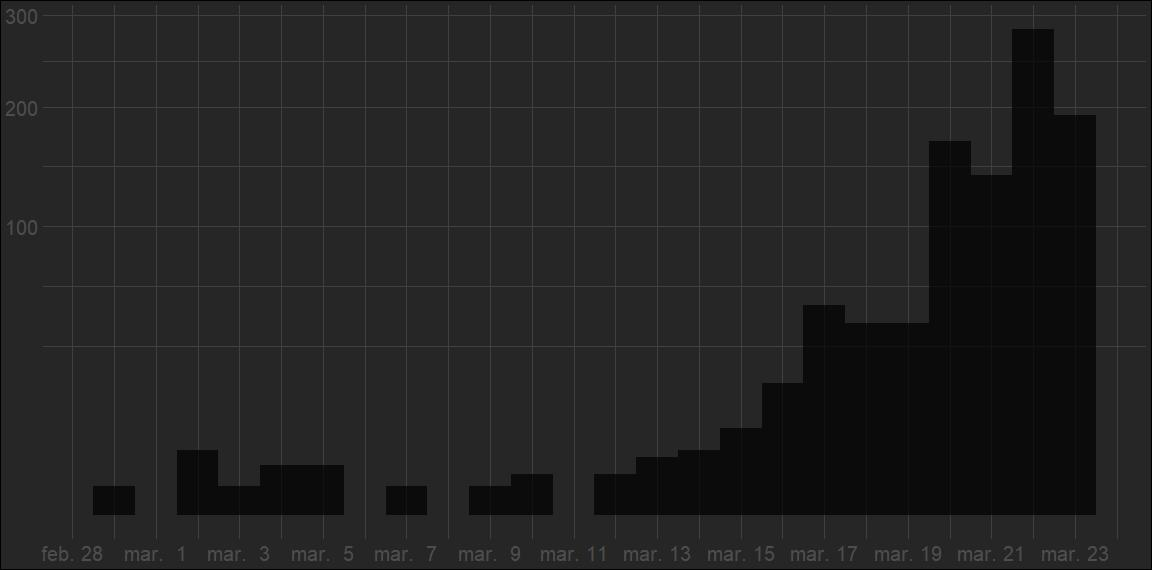
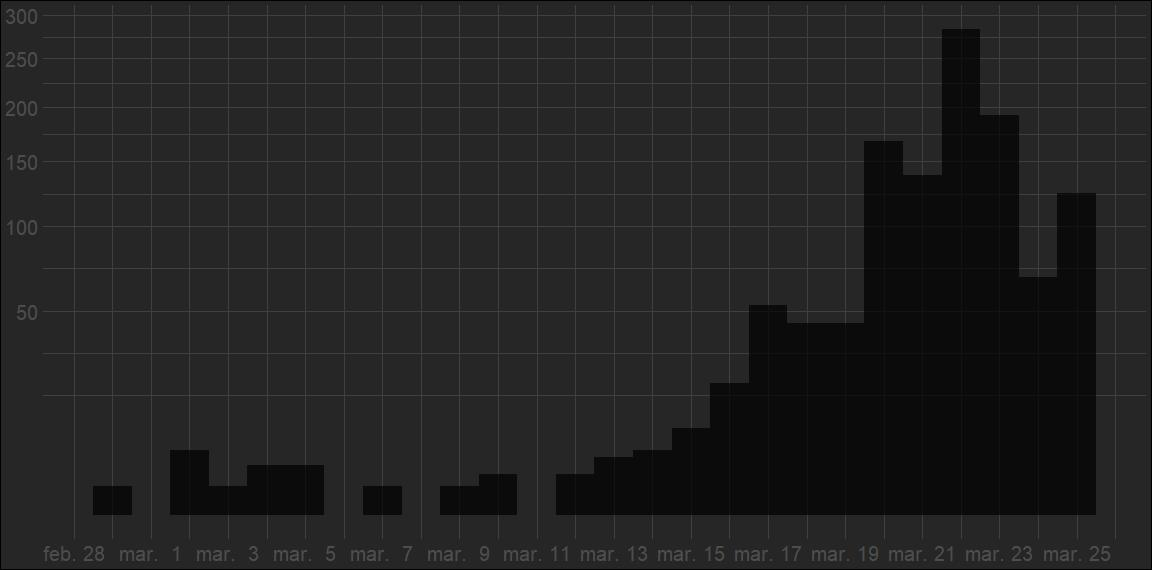
5th post corona act5

diff --git a/docs/post/2020/03/20-caracterizacion-covid-ecuador/index.html b/docs/post/2020/03/20-caracterizacion-covid-ecuador/index.html
@@ -298,7 +298,7 @@ code span.wa { color: #bf0303; } /* Warning */
 </style>
 
 
-<p><strong>Actualizado: 23 de marzo, 12 AM</strong></p>
+<p><strong>Actualizado: 25 de marzo, 12 AM</strong></p>
 <p>En vista de la emergencia en curso causada por el SARS-CoV-2 se presenta una caracterización de la epidemia en Ecuador. Se ha aplicado una metodología sugerida por el R Epidemics Consortium <a href="https://www.repidemicsconsortium.org/">RECON</a> que permite estimar tempranamente el ritmo reproductivo del virus; esta metodología requiere poseer información sobre la transmisión, y datos de la incidencia. La información requerida contempla los siguientes conceptos:</p>
 <ul>
 <li><p>El ritmo reproductivo básico (<em>Basic Reproduction Number</em>, R<sub>0</sub>) es el número esperado de casos nuevos, generados directamente por un determinado caso en una población completamente susceptible; es crucial entender que R<sub>0</sub> no es una constante biológica de un patógeno, pues es afectado por factores ambientales y conductuales.</p></li>
@@ -331,6 +331,34 @@ Personas fallecidas
 </tr>
 </thead>
 <tbody>
+<tr>
+<td style="text-align:left;">
+Riesgos_Ec
+</td>
+<td style="text-align:left;">
+25 de marzo, 10 AM
+</td>
+<td style="text-align:right;">
+1173
+</td>
+<td style="text-align:right;">
+28
+</td>
+</tr>
+<tr>
+<td style="text-align:left;">
+Riesgos_Ec
+</td>
+<td style="text-align:left;">
+24 de marzo, 10 AM
+</td>
+<td style="text-align:right;">
+1049
+</td>
+<td style="text-align:right;">
+27
+</td>
+</tr>
 <tr>
 <td style="text-align:left;">
 Riesgos_Ec
@@ -627,14 +655,16 @@ Salud_Ec
 ##          1          5          1          3          3          1          1 
 ## 2020-03-10 2020-03-12 2020-03-13 2020-03-14 2020-03-15 2020-03-16 2020-03-17 
 ##          2          2          4          5          9         21         53 
-## 2020-03-18 2020-03-19 2020-03-20 2020-03-21 2020-03-22 2020-03-23 
-##         44         44        168        139        283        192</code></pre>
+## 2020-03-18 2020-03-19 2020-03-20 2020-03-21 2020-03-22 2020-03-23 2020-03-24 
+##         44         44        168        139        283        192         68 
+## 2020-03-25 
+##        124</code></pre>
 <p>A continuación es posible ajustar un modelo logarítmico para la incidencia en el tiempo utilizando el paquete <code>incidence</code>:</p>
 <div class="sourceCode" id="cb3"><pre class="sourceCode r"><code class="sourceCode r"><a class="sourceLine" id="cb3-1" title="1"><span class="kw">library</span>(incidence)</a>
 <a class="sourceLine" id="cb3-2" title="2"></a>
 <a class="sourceLine" id="cb3-3" title="3">EC_incid =<span class="st"> </span><span class="kw">incidence</span>(EC_incid)</a>
 <a class="sourceLine" id="cb3-4" title="4"></a>
-<a class="sourceLine" id="cb3-5" title="5">EC_model =<span class="st"> </span><span class="kw">fit</span>(EC_incid[<span class="dv">8</span><span class="op">:</span><span class="kw">nrow</span>(EC_incid)]) <span class="co"># excluyendo primera semana</span></a>
+<a class="sourceLine" id="cb3-5" title="5">EC_model =<span class="st"> </span><span class="kw">fit</span>(EC_incid[<span class="dv">8</span><span class="op">:</span><span class="dv">23</span>]) <span class="co"># del 7 al 22 de marzo</span></a>
 <a class="sourceLine" id="cb3-6" title="6"></a>
 <a class="sourceLine" id="cb3-7" title="7">EC_model<span class="op">$</span>model</a></code></pre></div>
 <pre><code>## 
@@ -643,22 +673,23 @@ Salud_Ec
 ## 
 ## Coefficients:
 ## (Intercept)      dates.x  
-##     -0.8710       0.3985</code></pre>
-<p>En el caso de Ecuador, el comportamiento logarítmico (R<sup>2</sup> = 0.9531) es observable una semana después de la detección del primer caso. De acuerdo a este modelo se espera que cada 1.74 días se dupliquen los casos; esto, con un intervalo de confianza (CI) al 95 % de 1.54 a 2.01 días. En el siguiente gráfico las columnas rojas representan la incidencia diaria, la curva el modelo logarítmico -las líneas entrecortadas delimitan el 95 % CI- y la recta amarilla el inicio del estado de excepción, decretado para frenar las transmisiones.</p>
+##     -0.9479       0.4110</code></pre>
+<p>En Ecuador, el comportamiento logarítmico (R<sup>2</sup> = 0.9522) se observó del 7 de marzo -una semana después de detectado el primer caso- al 22 de marzo. En ese periodo los casos se duplicaron cada 1.69 días; esto, con un intervalo de confianza (CI) al 95 % de 1.48 a 1.96 días. Después de eso, la incidencia diaria es difícil de modelar; esto se podría relacionar tanto con las medidas de emergencia adoptadas, como con dudas sobre la veracidad de los datos. En el siguiente gráfico las columnas rojas representan la incidencia diaria, la curva el modelo logarítmico -las líneas entrecortadas delimitan el 95 % CI- y la recta amarilla el inicio del estado de excepción, decretado para frenar las transmisiones.</p>
 <div class="figure"><span id="fig:logplot"></span>
 <img src="../../../../post/2020/03/20-caracterizacion-covid-ecuador_files/figure-html/logplot-1.png" alt="Incidencia diaria de COVID-19 en Ecuador y modelo logarítmico ajustado" width="672" />
 <p class="caption">
 Figure 1: Incidencia diaria de COVID-19 en Ecuador y modelo logarítmico ajustado
 </p>
 </div>
-<p>La estimación de R<sub>0</sub> con <code>earlyR</code> requiere conocer el SI del COVID-19; en este sentido, la literatura reciente presenta dos alternativas. La primera, aprovechar el conocimiento de epidemias anteriores; <span class="citation">Zhao, Lin, et al. (<a href="#ref-covia" role="doc-biblioref">2020</a>)</span> proponen promediar las características del MERS (mean = 7.6, sd = 3.4) y del SARS (mean = 8.4, sd = 3.8), síndromes causados por otros coronavirus. La segunda alternativa consiste en estimar el SI utilizando las pocas cadenas de transmisión ya identificadas <span class="citation">(Zhao, Gao, et al. <a href="#ref-covib" role="doc-biblioref">2020</a>; Nishiura, Linton, and Akhmetzhanov <a href="#ref-covic" role="doc-biblioref">2020</a>)</span>; de esta manera se obtiene un SI preliminar, pero propio del SARS-CoV-2. Con estos antecedentes, se estimó <code>R_viruses</code> y <code>R_chains</code> usando la primera y segunda alternativa, respectivamente; los siguientes histogramas presentan la distribución de R<sub>0</sub> en ambos casos.</p>
+<p>La estimación de R<sub>0</sub> con <code>earlyR</code> requiere conocer el SI del COVID-19; en este sentido, la literatura reciente presenta dos alternativas. La primera, aprovechar el conocimiento de epidemias anteriores; <span class="citation">Zhao, Lin, et al. (<a href="#ref-covia" role="doc-biblioref">2020</a>)</span> proponen promediar las características del MERS (mean = 7.6, sd = 3.4) y del SARS (mean = 8.4, sd = 3.8), síndromes causados por otros coronavirus. La segunda alternativa consiste en estimar el SI utilizando las pocas cadenas de transmisión ya identificadas <span class="citation">(Zhao, Gao, et al. <a href="#ref-covib" role="doc-biblioref">2020</a>; Nishiura, Linton, and Akhmetzhanov <a href="#ref-covic" role="doc-biblioref">2020</a>)</span>; de esta manera se obtiene un SI preliminar, pero propio del SARS-CoV-2.</p>
+<p>Con estos antecedentes, se estimó <code>R_viruses</code> y <code>R_chains</code> usando la primera y segunda alternativa, respectivamente; se consideró la incidencia hasta el 22 de marzo, el pico actual de casos nuevos. Los siguientes histogramas presentan la distribución de los R<sub>0</sub> calculados.</p>
 <div class="sourceCode" id="cb5"><pre class="sourceCode r"><code class="sourceCode r"><a class="sourceLine" id="cb5-1" title="1"><span class="kw">library</span>(earlyR)</a>
 <a class="sourceLine" id="cb5-2" title="2"></a>
-<a class="sourceLine" id="cb5-3" title="3">R_viruses =<span class="st"> </span><span class="kw">get_R</span>(EC_incid, <span class="dt">si_mean =</span> <span class="dv">8</span>, <span class="dt">si_sd =</span> <span class="fl">3.6</span>, <span class="dt">max_R =</span> <span class="dv">6</span>) <span class="co"># según Zhao, Lin et al.</span></a>
+<a class="sourceLine" id="cb5-3" title="3">R_viruses =<span class="st"> </span><span class="kw">get_R</span>(EC_incid[<span class="dv">1</span><span class="op">:</span><span class="dv">23</span>], <span class="dt">si_mean =</span> <span class="dv">8</span>, <span class="dt">si_sd =</span> <span class="fl">3.6</span>, <span class="dt">max_R =</span> <span class="dv">6</span>) <span class="co"># Zhao, Lin et al.</span></a>
 <a class="sourceLine" id="cb5-4" title="4"></a>
-<a class="sourceLine" id="cb5-5" title="5">R_chains =<span class="st"> </span><span class="kw">get_R</span>(EC_incid, <span class="dt">si_mean =</span> <span class="fl">4.4</span>, <span class="dt">si_sd =</span> <span class="dv">3</span>, <span class="dt">max_R =</span> <span class="dv">6</span>) <span class="co"># según Zhao, Gao et al.</span></a>
+<a class="sourceLine" id="cb5-5" title="5">R_chains =<span class="st"> </span><span class="kw">get_R</span>(EC_incid[<span class="dv">1</span><span class="op">:</span><span class="dv">23</span>], <span class="dt">si_mean =</span> <span class="fl">4.4</span>, <span class="dt">si_sd =</span> <span class="dv">3</span>, <span class="dt">max_R =</span> <span class="dv">6</span>) <span class="co"># Zhao, Gao et al.</span></a>
 <a class="sourceLine" id="cb5-6" title="6"></a>
-<a class="sourceLine" id="cb5-7" title="7"><span class="kw">par</span>(<span class="dt">mfrow =</span> <span class="kw">c</span>(<span class="dv">1</span>,<span class="dv">2</span>), <span class="dt">mar =</span> <span class="kw">c</span>(<span class="dv">4</span>,<span class="dv">5</span>,<span class="dv">1</span>,<span class="dv">1</span>))</a>
+<a class="sourceLine" id="cb5-7" title="7"><span class="kw">par</span>(<span class="dt">mfrow =</span> <span class="kw">c</span>(<span class="dv">1</span>, <span class="dv">2</span>), <span class="dt">mar =</span> <span class="kw">c</span>(<span class="dv">4</span>, <span class="dv">5</span>, <span class="dv">1</span>, <span class="dv">1</span>))</a>
 <a class="sourceLine" id="cb5-8" title="8"></a>
 <a class="sourceLine" id="cb5-9" title="9"><span class="kw">hist</span>(<span class="kw">sample_R</span>(R_viruses, <span class="fl">1e3</span>), <span class="dt">freq =</span> <span class="ot">FALSE</span>, <span class="dt">main =</span> <span class="ot">NULL</span>, <span class="dt">xlab =</span> <span class="st">&quot;R_viruses&quot;</span>)</a>
 <a class="sourceLine" id="cb5-10" title="10"></a>
@@ -669,44 +700,44 @@ Figure 1: Incidencia diaria de COVID-19 en Ecuador y modelo logarítmico ajustad
 Figure 2: Distribución de Ro del COVID-19 según SI de otros coronavirus 👈 y de cadenas de transmisión estudiadas 👉
 </p>
 </div>
-<p>La primera alternativa arroja 4 como el valor más probable; es posible considerar este valor una sobrestimación de R<sub>0</sub> según lo observado en estudios recientes. Mientras tanto, la segunda alternativa estima un R<sub>0</sub> = 1.86 (95 % CI: 1.75 - 1.98); un valor congruente con los estudios, donde se ha observado que el SARS-CoV-2 posee un SI más corto que otros coronavirus. Por ende, aun con un ritmo reproductivo menor, puede generar más casos.</p>
-<p>Considerando R<sub>0</sub> se puede modelar una proyección futura, más flexible que la arrojada por el modelo exponencial solamente. Se ha utilizado <code>projections</code> para predecir tres escenarios, calculando en cada uno diez mil simulaciones para cada día de las dos próximas semanas.</p>
+<p>La primera alternativa arroja 4.72 como el valor más probable; es posible considerar este valor una sobrestimación de R<sub>0</sub> según lo observado en estudios recientes. Mientras tanto, la segunda alternativa estima un R<sub>0</sub> = 2.08 (95 % CI: 1.95 - 2.23); un valor congruente con los estudios, donde se ha observado que el SARS-CoV-2 posee un SI más corto que otros coronavirus. Por ende, aun con un ritmo reproductivo menor, puede generar más casos.</p>
+<p>Considerando R<sub>0</sub> se puede modelar una proyección futura, más flexible que la arrojada por el modelo exponencial solamente. Se ha utilizado <code>projections</code> para predecir tres escenarios, calculando en cada uno diez mil simulaciones para cada día de las próximas dos semanas.</p>
 <div class="sourceCode" id="cb6"><pre class="sourceCode r"><code class="sourceCode r"><a class="sourceLine" id="cb6-1" title="1"><span class="kw">library</span>(projections)</a>
 <a class="sourceLine" id="cb6-2" title="2"></a>
-<a class="sourceLine" id="cb6-3" title="3">EC_proj =<span class="st"> </span><span class="kw">project</span>(EC_incid, R_sample, R_chains<span class="op">$</span>si, <span class="dt">n_days =</span> <span class="dv">14</span>, <span class="dt">n_sim =</span> <span class="fl">1e4</span>)</a>
+<a class="sourceLine" id="cb6-3" title="3">EC_proj =<span class="st"> </span><span class="kw">project</span>(EC_incid[<span class="dv">1</span><span class="op">:</span><span class="dv">23</span>], R_sample, R_chains<span class="op">$</span>si, <span class="dt">n_days =</span> <span class="dv">14</span>, <span class="dt">n_sim =</span> <span class="fl">1e4</span>)</a>
 <a class="sourceLine" id="cb6-4" title="4"></a>
 <a class="sourceLine" id="cb6-5" title="5"><span class="kw">rowMeans</span>(EC_proj)</a></code></pre></div>
-<pre><code>## 2020-03-24 2020-03-25 2020-03-26 2020-03-27 2020-03-28 2020-03-29 2020-03-30 
-##   241.6699   285.5094   333.7720   389.0628   452.4798   526.6639   613.1299 
-## 2020-03-31 2020-04-01 2020-04-02 2020-04-03 2020-04-04 2020-04-05 2020-04-06 
-##   712.0398   829.0010   964.0129  1122.4745  1306.3335  1518.5921  1768.5586</code></pre>
+<pre><code>## 2020-03-23 2020-03-24 2020-03-25 2020-03-26 2020-03-27 2020-03-28 2020-03-29 
+##   222.9667   281.0238   344.1267   417.3118   503.9178   609.0908   735.8126 
+## 2020-03-30 2020-03-31 2020-04-01 2020-04-02 2020-04-03 2020-04-04 2020-04-05 
+##   887.5471  1072.2918  1294.5923  1563.9690  1889.7482  2279.6449  2754.6759</code></pre>
 <p>Estos datos representan la incidencia promedio para cada día, en un primer escenario donde R<sub>0</sub> no cambia en absoluto. Los casos actuales y la proyección futura -la región sombreada delimita el 95 % CI- se presentan en el siguiente gráfico de manera acumulativa:</p>
 <div class="sourceCode" id="cb8"><pre class="sourceCode r"><code class="sourceCode r"><a class="sourceLine" id="cb8-1" title="1">EC_incid =<span class="st"> </span><span class="kw">cumulate</span>(EC_incid)</a>
 <a class="sourceLine" id="cb8-2" title="2"></a>
-<a class="sourceLine" id="cb8-3" title="3">EC_proj =<span class="st"> </span><span class="kw">cumulate</span>(EC_proj)</a>
+<a class="sourceLine" id="cb8-3" title="3">EC_proj =<span class="st"> </span><span class="kw">cumulate</span>(EC_proj) <span class="op">+</span><span class="st"> </span><span class="kw">max</span>(EC_incid[<span class="dv">1</span><span class="op">:</span><span class="dv">23</span>]<span class="op">$</span>counts)</a>
 <a class="sourceLine" id="cb8-4" title="4"></a>
-<a class="sourceLine" id="cb8-5" title="5"><span class="kw">add_projections</span>(<span class="kw">plot</span>(EC_incid), EC_proj <span class="op">+</span><span class="st"> </span><span class="kw">max</span>(EC_incid<span class="op">$</span>counts), <span class="kw">c</span>(.<span class="dv">025</span>, <span class="fl">.5</span>)) <span class="op">+</span></a>
+<a class="sourceLine" id="cb8-5" title="5"><span class="kw">add_projections</span>(<span class="kw">plot</span>(EC_incid), EC_proj, <span class="kw">c</span>(.<span class="dv">025</span>, <span class="fl">.5</span>)) <span class="op">+</span></a>
 <a class="sourceLine" id="cb8-6" title="6"><span class="st">   </span><span class="kw">geom_vline</span>(<span class="dt">xintercept =</span> <span class="kw">as.Date</span>(<span class="st">&quot;2020-03-17&quot;</span>), <span class="dt">col =</span> <span class="st">&quot;gold&quot;</span>, <span class="dt">alpha =</span> <span class="fl">.6</span>, <span class="dt">size =</span> <span class="dv">2</span>) <span class="op">+</span></a>
-<a class="sourceLine" id="cb8-7" title="7"><span class="st">   </span><span class="kw">scale_x_date</span>(<span class="dt">date_breaks =</span> <span class="st">&quot;4 days&quot;</span>, <span class="dt">date_labels =</span> <span class="st">&quot;%b %e&quot;</span>) <span class="op">+</span></a>
-<a class="sourceLine" id="cb8-8" title="8"><span class="st">   </span><span class="kw">scale_y_continuous</span>(<span class="st">&quot;Incidencia diaria acumulada&quot;</span>, <span class="fl">1e3</span> <span class="op">*</span><span class="st"> </span><span class="dv">0</span><span class="op">:</span><span class="dv">13</span>) <span class="op">+</span></a>
+<a class="sourceLine" id="cb8-7" title="7"><span class="st">   </span><span class="kw">scale_y_continuous</span>(<span class="st">&quot;Incidencia diaria acumulada&quot;</span>, <span class="fl">2e3</span> <span class="op">*</span><span class="st"> </span><span class="dv">0</span><span class="op">:</span><span class="dv">9</span>) <span class="op">+</span></a>
+<a class="sourceLine" id="cb8-8" title="8"><span class="st">   </span><span class="kw">scale_x_date</span>(<span class="dt">date_breaks =</span> <span class="st">&quot;4 days&quot;</span>, <span class="dt">date_labels =</span> <span class="st">&quot;%b %e&quot;</span>) <span class="op">+</span></a>
 <a class="sourceLine" id="cb8-9" title="9"><span class="st">   </span><span class="kw">scale_fill_manual</span>(<span class="dt">values =</span> <span class="st">&quot;firebrick&quot;</span>)</a></code></pre></div>
 <div class="figure"><span id="fig:project-normal"></span>
-<img src="../../../../post/2020/03/20-caracterizacion-covid-ecuador_files/figure-html/project-normal-1.png" alt="Proyección de incidencia diaria acumulada de COVID-19 en Ecuador si R0 = 1.8559" width="672" />
+<img src="../../../../post/2020/03/20-caracterizacion-covid-ecuador_files/figure-html/project-normal-1.png" alt="Proyección de incidencia diaria acumulada de COVID-19 en Ecuador si R0 = 2.08" width="672" />
 <p class="caption">
-Figure 3: Proyección de incidencia diaria acumulada de COVID-19 en Ecuador si R0 = 1.8559
+Figure 3: Proyección de incidencia diaria acumulada de COVID-19 en Ecuador si R0 = 2.08
 </p>
 </div>
 <p>El segundo y tercer escenarios calculados suponen que R<sub>0</sub> se reduce a la mitad (figura <a href="#fig:project-better">4</a>) y a la quinta parte (figura <a href="#fig:project-best">5</a>), respectivamente:</p>
 <div class="figure"><span id="fig:project-better"></span>
-<img src="../../../../post/2020/03/20-caracterizacion-covid-ecuador_files/figure-html/project-better-1.png" alt="Proyección de incidencia diaria acumulada de COVID-19 en Ecuador si R0 = 0.9279" width="672" />
+<img src="../../../../post/2020/03/20-caracterizacion-covid-ecuador_files/figure-html/project-better-1.png" alt="Proyección de incidencia diaria acumulada de COVID-19 en Ecuador si R0 = 1.04" width="672" />
 <p class="caption">
-Figure 4: Proyección de incidencia diaria acumulada de COVID-19 en Ecuador si R0 = 0.9279
+Figure 4: Proyección de incidencia diaria acumulada de COVID-19 en Ecuador si R0 = 1.04
 </p>
 </div>
 <div class="figure"><span id="fig:project-best"></span>
-<img src="../../../../post/2020/03/20-caracterizacion-covid-ecuador_files/figure-html/project-best-1.png" alt="Proyección de incidencia diaria acumulada de COVID-19 en Ecuador si R0 = 0.3712" width="672" />
+<img src="../../../../post/2020/03/20-caracterizacion-covid-ecuador_files/figure-html/project-best-1.png" alt="Proyección de incidencia diaria acumulada de COVID-19 en Ecuador si R0 = 0.42" width="672" />
 <p class="caption">
-Figure 5: Proyección de incidencia diaria acumulada de COVID-19 en Ecuador si R0 = 0.3712
+Figure 5: Proyección de incidencia diaria acumulada de COVID-19 en Ecuador si R0 = 0.42
 </p>
 </div>
 <p>Evidentemente, si R<sub>0</sub> &lt; 1 la epidemia será controlada eventualmente. Sin embargo, <strong>estas proyecciones no son realistas</strong> pues cualquier cambio introducido en R<sub>0</sub> -a través de medidas políticas, sociales y sanitarias- no se refleja inmediatamente; en Ecuador es necesario contar las infecciones previas a la declaración de estado de excepción, y que aún no han superado el periodo de incubación. Se pretende actualizar este post conforme las incidencias diarias sean reportadas y reflejen, con optimismo, las medidas adoptadas.</p>
